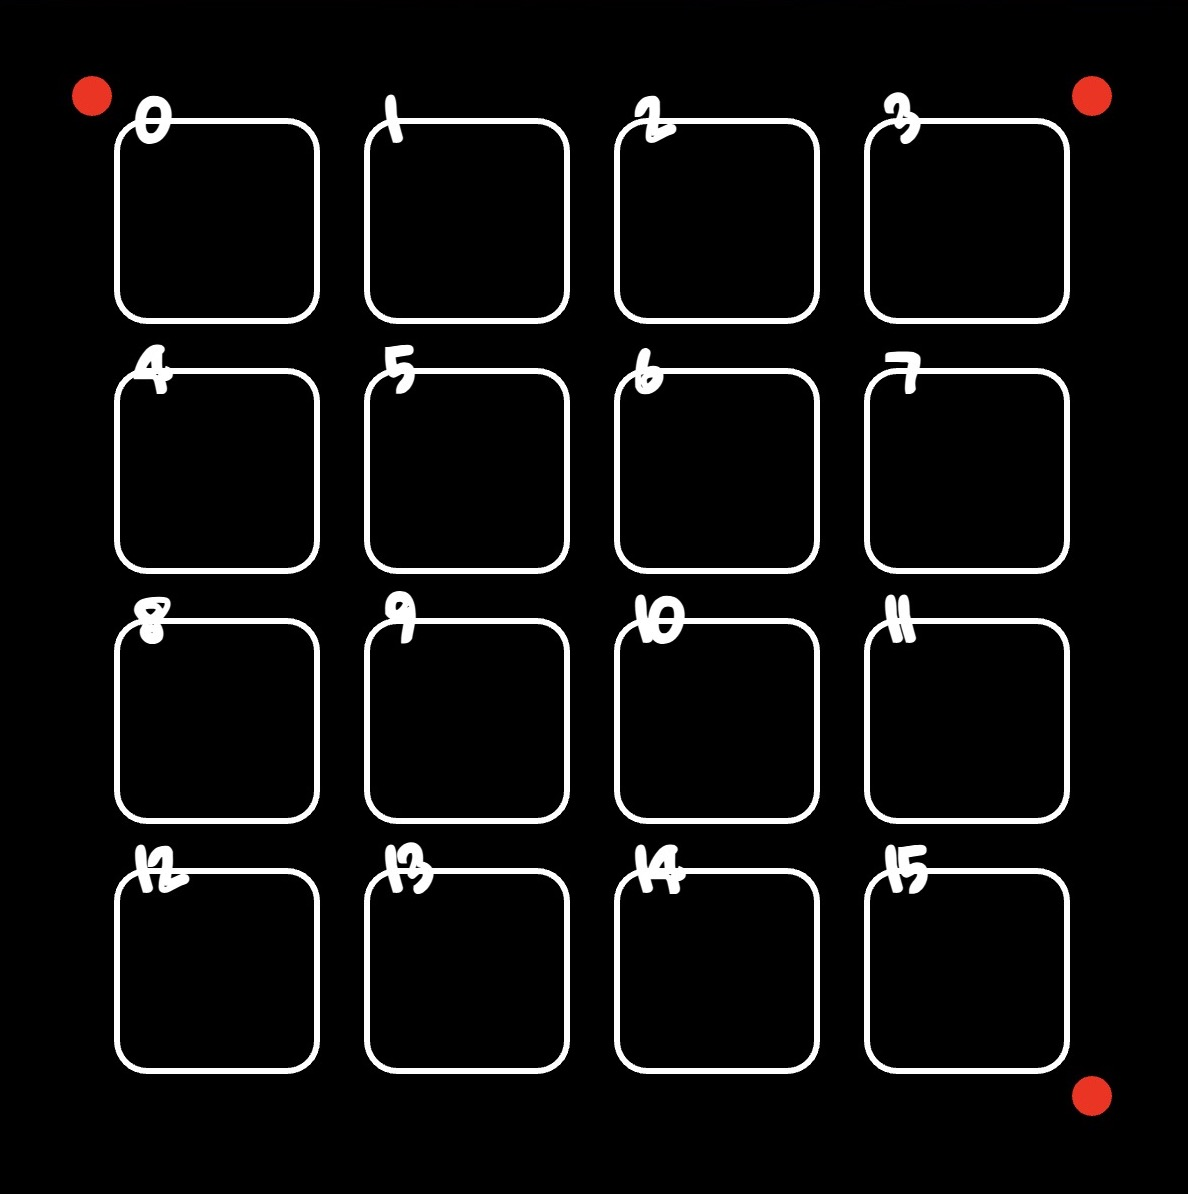
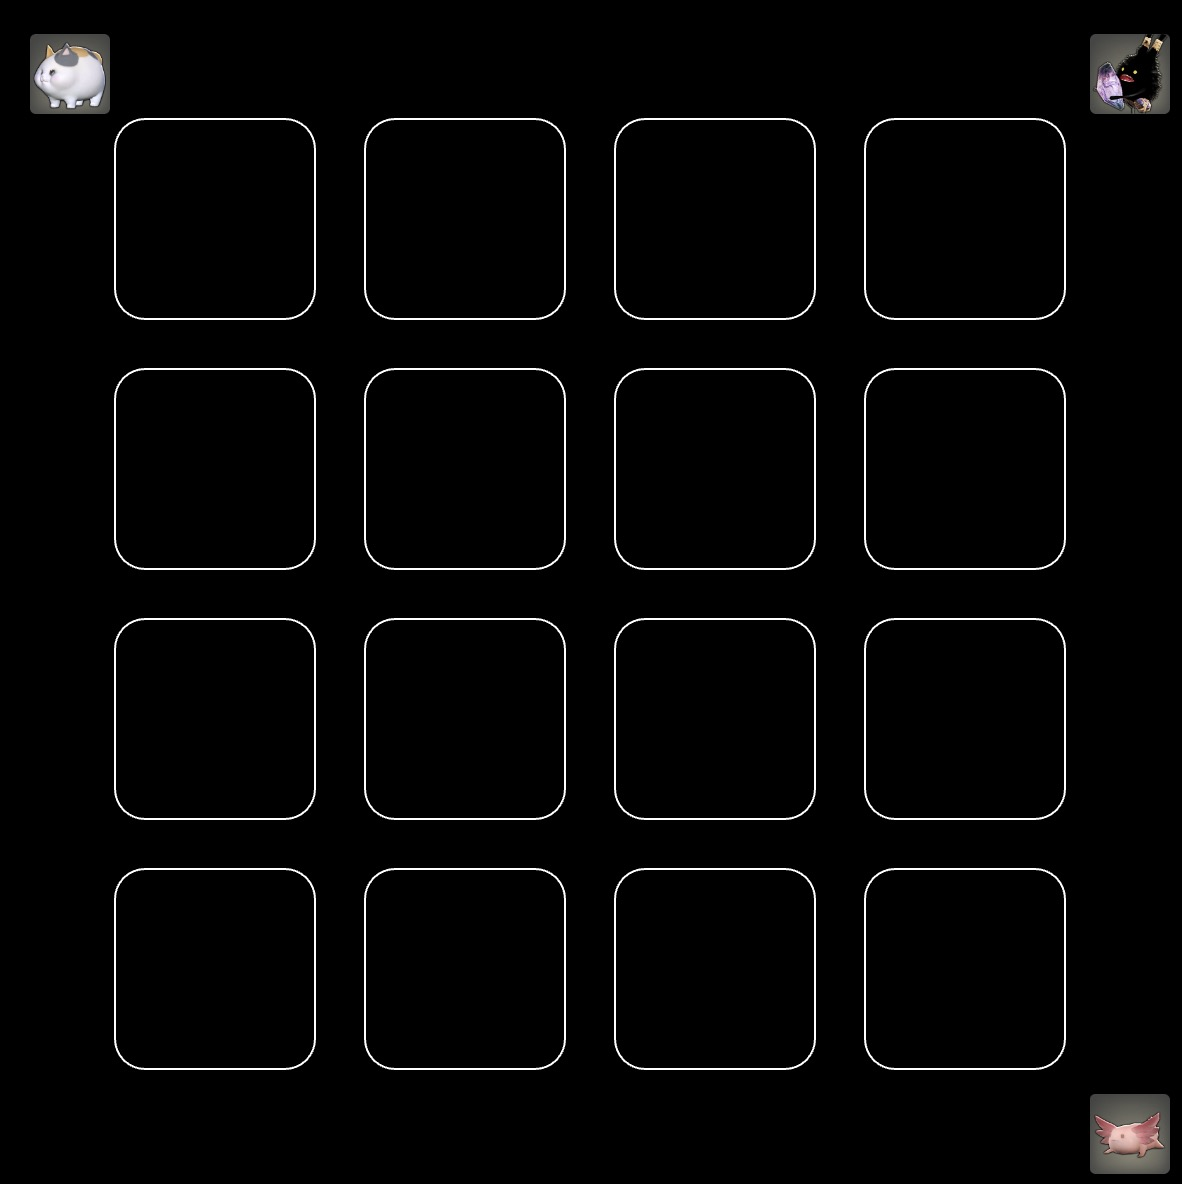
change in project B

diff --git a/ProjectB-music-party/sketch.js b/ProjectB-music-party/sketch.js
@@ -21,6 +21,10 @@ let b=260;
 let t=260;
 let tIncrease=-3;
 
+let img1;
+let img2;
+let img3;
+
 
 
 function preload(){
@@ -41,6 +45,9 @@ function preload(){
   }
 
   backgroundImage = loadImage("canvas-pictures/canvasBackground.jpg");
+  img1 = loadImage("canvas-pictures/player1.jpg");
+  img2 = loadImage("canvas-pictures/player2.jpg");
+  img3 = loadImage("canvas-pictures/player3.jpg");
 
 }
 
@@ -48,9 +55,9 @@ function setup(){
   let cnv = createCanvas(600, 600);
   cnv.parent("canvasWrapper");
 
-  players.push(new Player(50,50,87, 83, 65, 68));
-  players.push(new Player(550,550,38, 40, 37, 39));
-  players.push(new Player(550,50,73,75,74,76));
+  players.push(new Player(20,20,87, 83, 65, 68,img1));
+  players.push(new Player(550,550,38, 40, 37, 39,img2));
+  players.push(new Player(550,20,73,75,74,76,img3));
   // console.log(fields)；
 }
 
@@ -134,7 +141,7 @@ class Field{
     noFill();
 
     rect(0,0,aSquare,aSquare,15);
-    text(this.name, 10, 10)
+    // text(this.name, 10, 10)
 
     // console.log(this.name);
     if(this.vol == 1){
@@ -197,13 +204,14 @@ class Field{
 
 
 class Player{
-  constructor(startX,startY,up,down,left,right){
+  constructor(startX,startY,up,down,left,right,img){
     this.x = startX;
     this.y = startY;
     this.upKey = up;
     this.downKey = down;
     this.leftKey = left;
     this.rightKey = right;
+    this.img = img;
 
     this.speed = 2;
   }
@@ -227,8 +235,7 @@ class Player{
   }
 
   display(){
-    fill(255,3,3);
-    circle (this.x, this.y,20);
+    image(this.img,this.x,this.y,40,40);
 
   }
 

diff --git a/ProjectB-music-party/Introduction.html b/ProjectB-music-party/Introduction.html
@@ -42,27 +42,30 @@
     </div>
 
     <div class = "beginningCaption box3">
-        <p >Use arrow keys to move around for Player 1</p>
+        <p>This is a Fat Cat.</p>
+        <p>Use 'WASD' to help it move around.</p>
     </div>
 
     <div class="picture">
-    <img src="html-pictures/underConstruction.jpeg" alt="a picture/gif for P1">
+    <img src="canvas-pictures/player1.jpg" alt="a picture/gif for P1">
     </div>
 
     <div class ="beginningCaption box3">
-        <p >Use WASD to move around for Player 2</p>
+        <p>This is an adventurous ambystoma.</p>
+        <p>Use key arrows to help it explore the music party!</p>
     </div>
 
     <div class="picture">
-    <img src="html-pictures/underConstruction.jpeg" alt="a picture/gif for P2">
+    <img src="canvas-pictures/player2.jpg" alt="a picture/gif for P2">
     </div>
 
     <div class ="beginningCaption box3">
-        <p >Use IJKL to move around for Player 2</p>
+        <p>This is a Dust Bunny.</p>
+        <p>Use 'IJKL' to help it find if here is a place for it to store its crystal.</p>
     </div>
 
     <div class="picture">
-    <img src="html-pictures/underConstruction.jpeg" alt="a picture/gif for P2">
+    <img src="canvas-pictures/player3.jpg" alt="a picture/gif for P2">
     </div>
 
     <div class = "beginningCaption box4">

diff --git a/ProjectB-music-party/style.css b/ProjectB-music-party/style.css
@@ -75,6 +75,7 @@ body{
     font-size: 28px;
     text-align: center;
     color: antiquewhite;
+    padding: 10px;
 }
 
 .box4{
